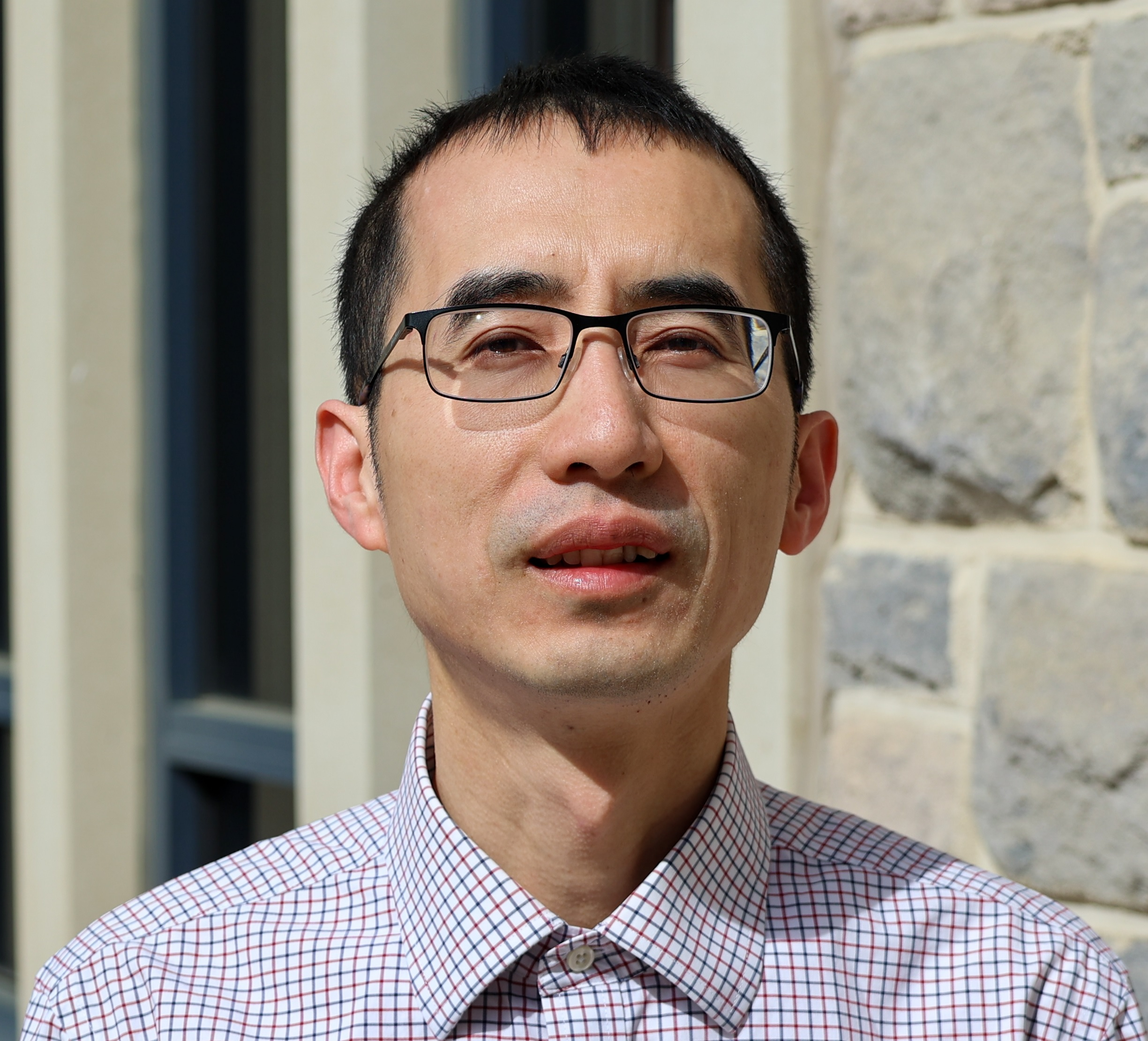
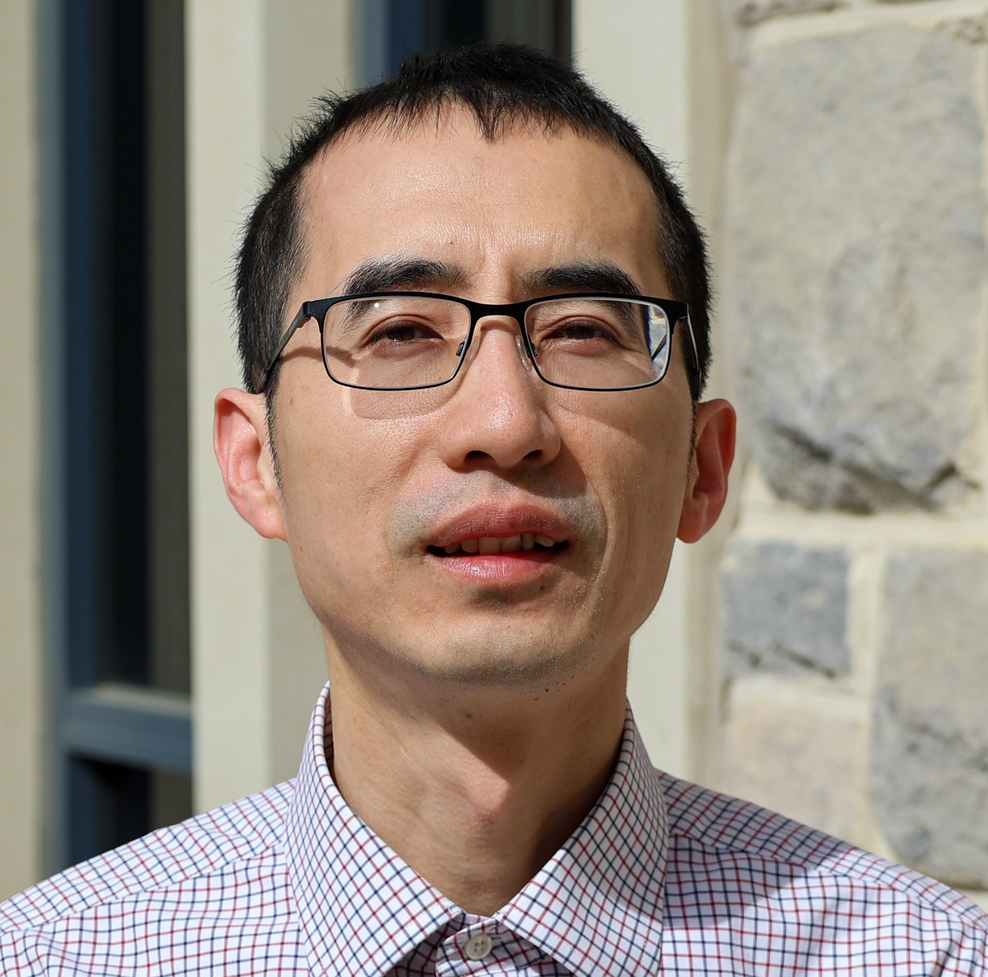
yh

diff --git a/index.html b/index.html
@@ -35,7 +35,7 @@
   <div id="content">
     <h1> Faculty: </h1>
     <table> 
-	<tr> <td> <img src="image/Hong.JPG" alt="Yili Hong" height="135px" width="149px">
+	<tr> <td> <img src="image/Hong.JPG" alt="Yili Hong" height="135px" width="136px">
 	     </td>
 		 <td width="50%">Yili Hong<br />
                          Professor of Statistics<br />
